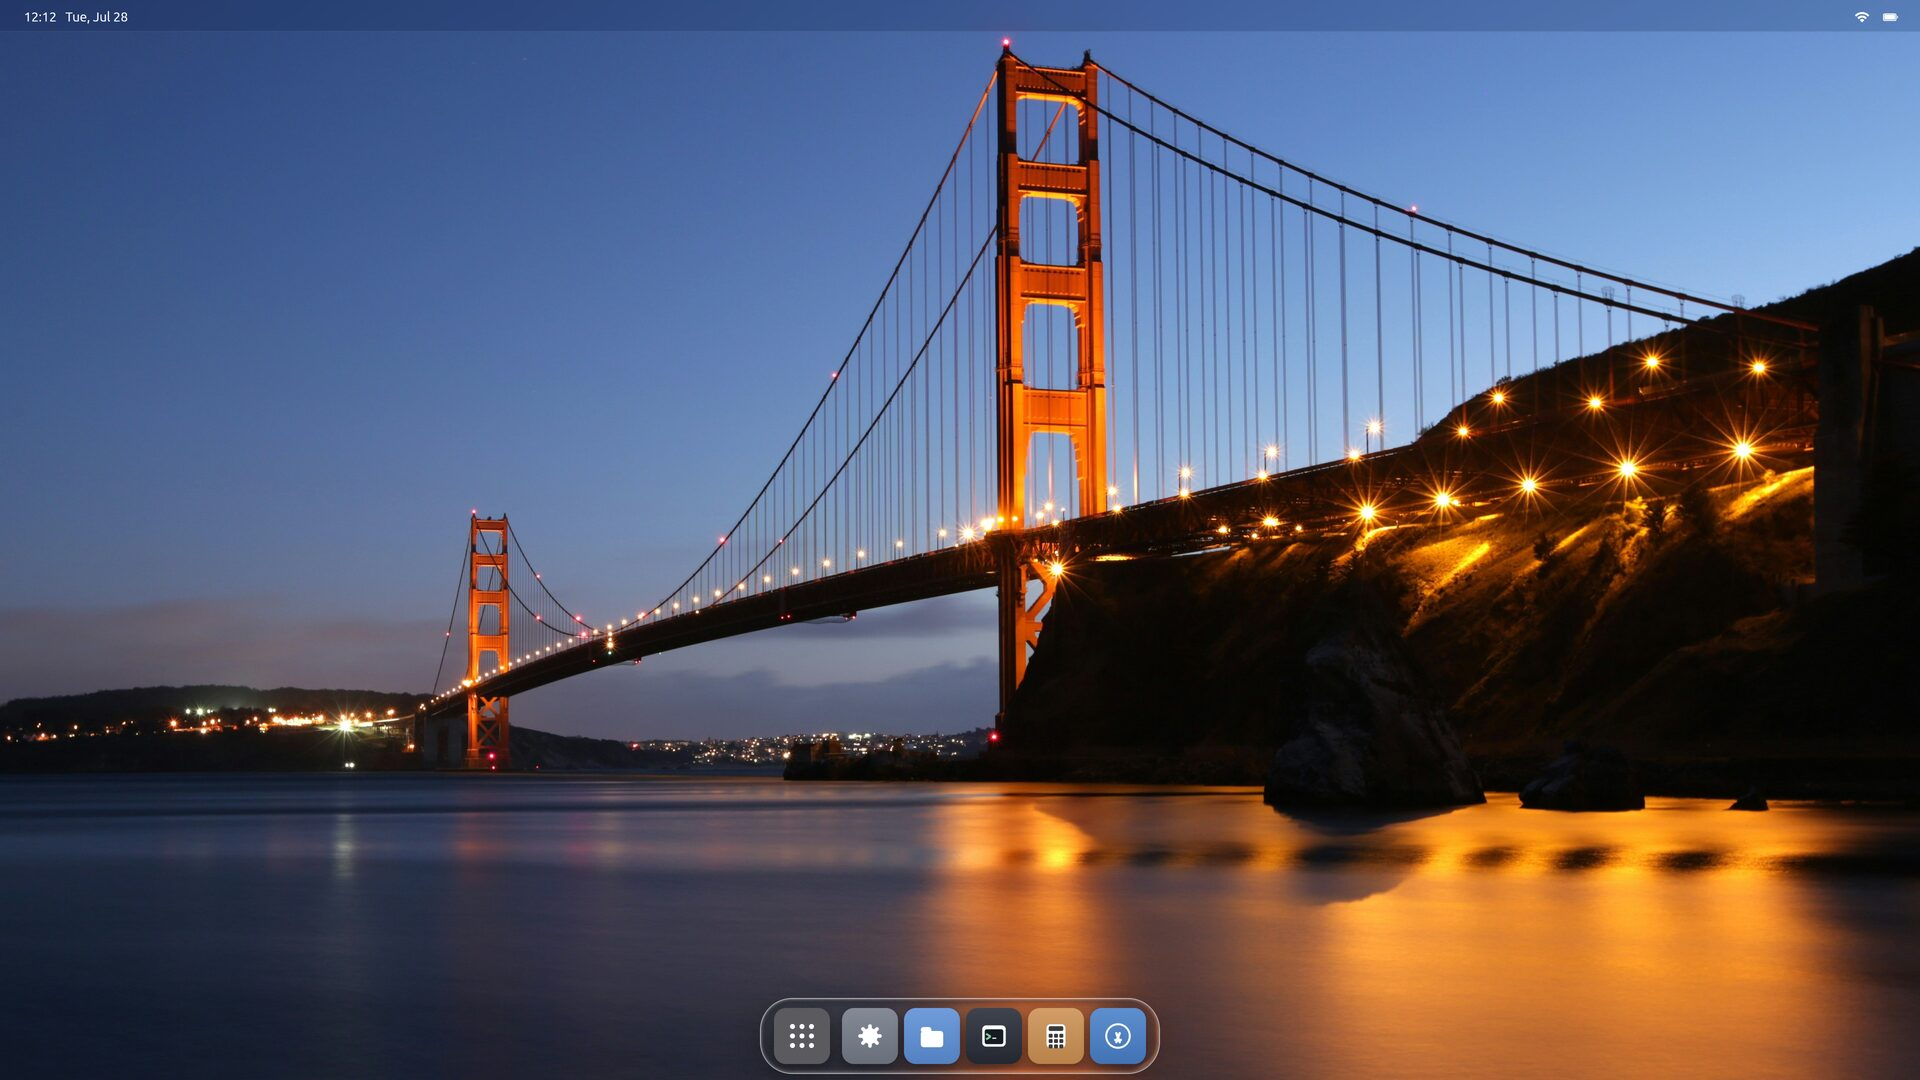
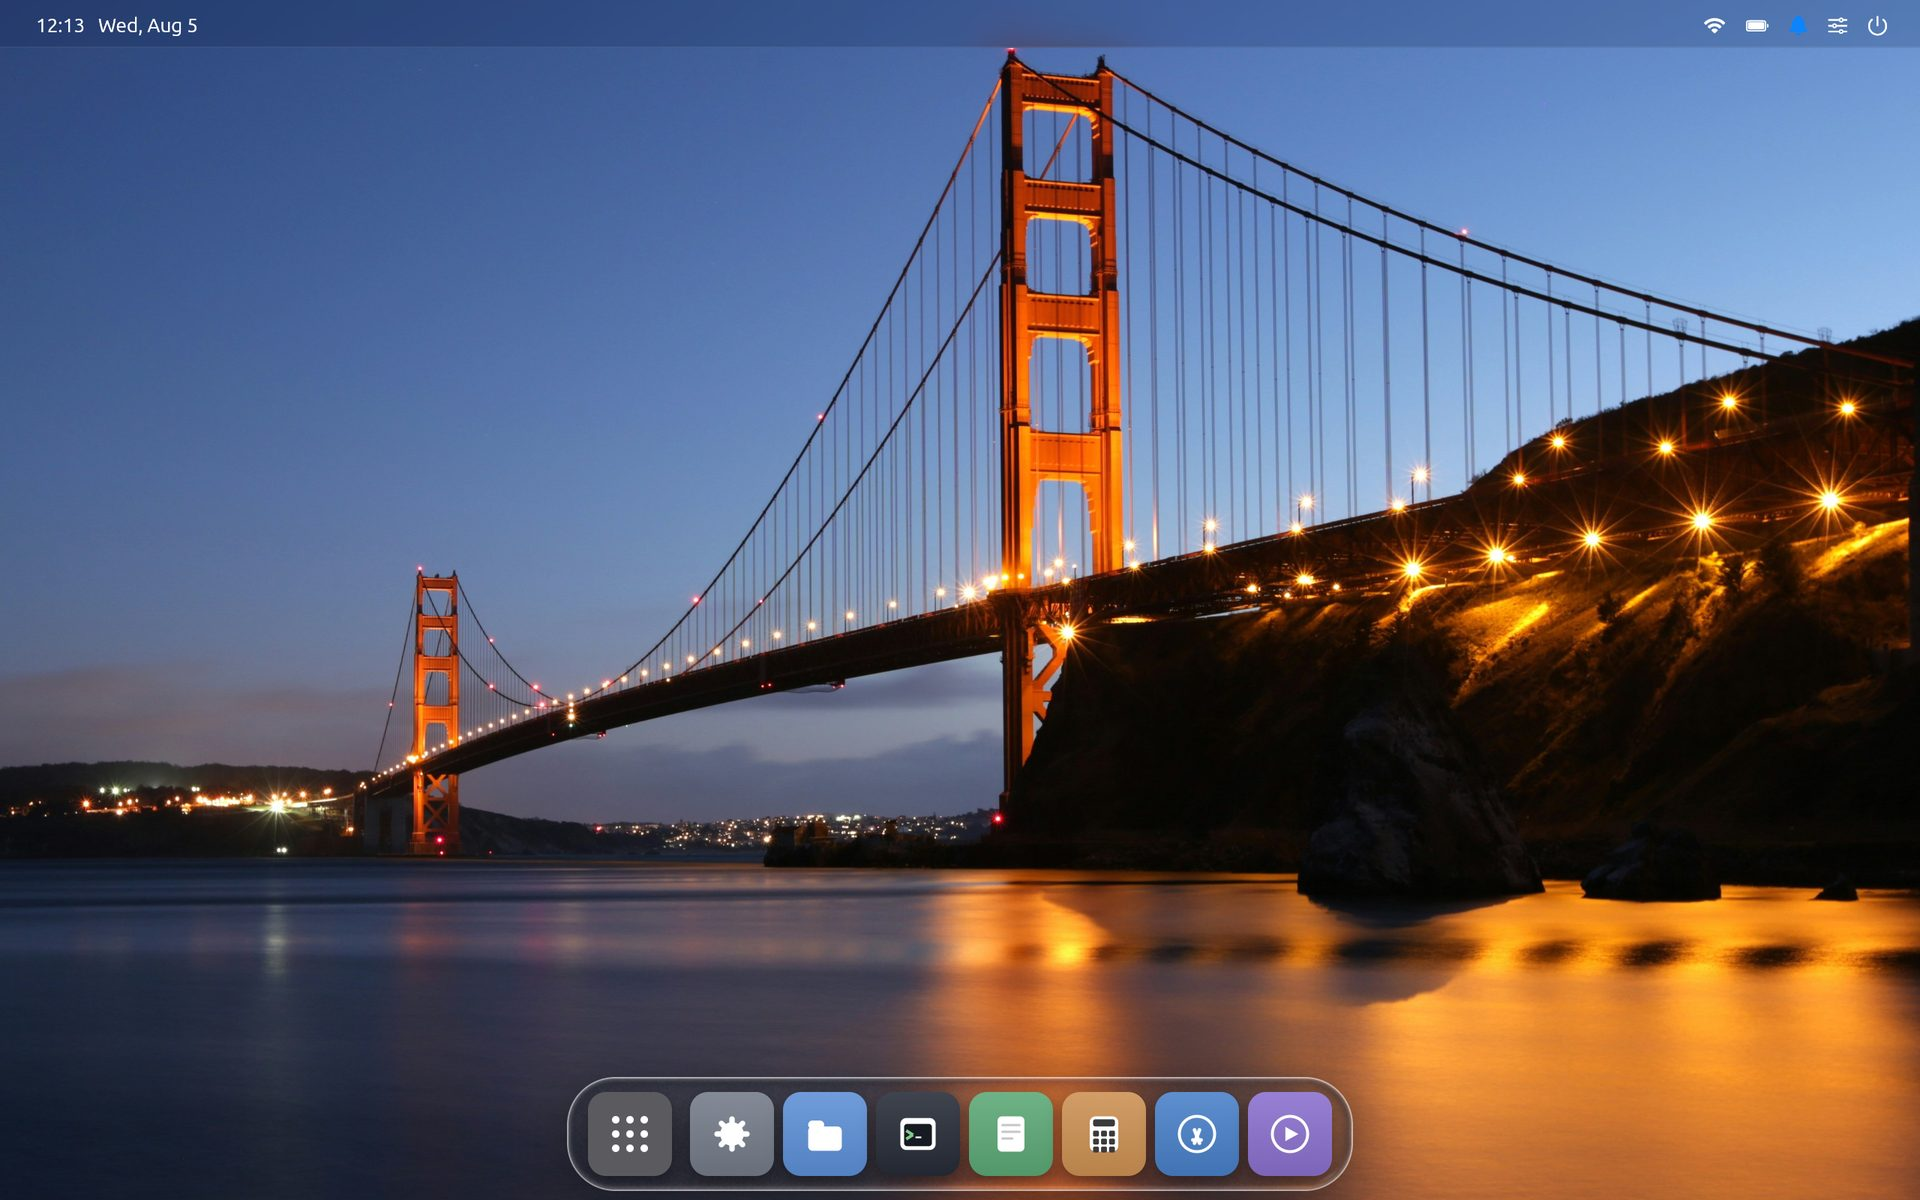
ui: bring the web guide up to 0.2.3, and re-cut its stale screenshots
The Markdown guide was corrected last commit; guide.html still described the
0.2 desktop. It now carries the same content: a menu-bar/control-centre
section, a screen-recording section (Record, Record App, the red-dot
indicator, ~/Videos, what the hardware encoder costs), Ctrl+Shift+R in the
keyboard reference, nine app cards instead of five, an eight-icon dock, and
no more "No notifications yet — the Settings toggle is inert", which appeared
twice on the page and has been false since 0.2.3.

Three screenshots contradicted the text and were re-cut from this machine:
desktop.jpg (the dock ships eight icons, the old shot showed six),
launchpad.jpg (now the real installed grid, Chrome and VS Code included) and
settings.jpg. Their alt text is rewritten to describe what the new images
actually show rather than the old ones.

settings.jpg meant installing the published 0.2.3-2 .deb on this box first —
it was still running 0.2.3-1, so the System Information panel would have
photographed the wrong version into the documentation.

Both guides also claimed Settings has five sidebar sections. It has nine:
General, Network, Displays, Sound, Date & Time, Default Apps, Appearance,
Power, About — checked against SettingsApp.swift, not memory.

Claude-Session: https://claude.ai/code/session_01SRKD83S2yqs3Drs12Gby9J

diff --git a/ui/guide.html b/ui/guide.html
@@ -304,6 +304,8 @@
         <a href="#first-login">First login</a>
         <a href="#dock">The dock</a>
         <a href="#launchpad">Launchpad</a>
+        <a href="#menubar">Menu bar</a>
+        <a href="#recording">Recording</a>
         <a href="#windows">Windows</a>
         <a href="#spaces">Spaces &amp; Mission Control</a>
         <a href="#shortcuts">Shortcuts</a>
@@ -340,7 +342,7 @@
         a right-click on the wallpaper.</p>
       </div>
       <figure>
-        <img src="img/guide/desktop.jpg" alt="The Starling desktop: a menu bar with the clock across the top, a wallpaper of the Golden Gate Bridge at dusk, and a floating glass dock at the bottom holding six app icons.">
+        <img src="img/guide/desktop.jpg" alt="The Starling desktop: a menu bar with the clock across the top, a wallpaper of the Golden Gate Bridge at dusk, and a floating glass dock at the bottom holding eight app icons.">
         <figcaption>The Starling desktop — menu bar, wallpaper, and the dock.</figcaption>
       </figure>
     </div>
@@ -353,10 +355,11 @@
         <h2>Your apps, along the bottom</h2>
       </div>
       <div class="prose">
-        <p>Out of the box the dock holds the six first-party apps, in order:
+        <p>Out of the box the dock holds the first-party apps, in order:
         <strong>Launchpad</strong>, <strong>Settings</strong>,
         <strong>Files</strong>, <strong>Terminal</strong>,
-        <strong>Calculator</strong>, and the <strong>App Store</strong>.</p>
+        <strong>Text Editor</strong>, <strong>Calculator</strong>,
+        the <strong>App Store</strong>, and <strong>Video Player</strong>.</p>
       </div>
       <ul class="feats">
         <li><strong>Click</strong> an icon to launch or focus that app.</li>
@@ -383,9 +386,51 @@
         <li>Click empty space or press <kbd>Esc</kbd> to dismiss it.</li>
       </ul>
       <figure>
-        <img src="img/guide/launchpad.jpg" alt="The Launchpad: a search box at the top and a grid of app icons — Settings, Files, Terminal, Calculator, App Store, Chrome, VS Code, Blender, GIMP and IntelliJ IDEA — over a blurred wallpaper.">
+        <img src="img/guide/launchpad.jpg" alt="The Launchpad: a search box at the top and a grid of app icons — Settings, Files, Image Viewer, Video Player, Terminal, Text Editor, Calculator, Task Manager, App Store, Chrome and VS Code — over a blurred wallpaper.">
         <figcaption>The Launchpad. First-party apps and any installed third-party apps, searchable.</figcaption>
       </figure>
+    </div>
+  </section>
+
+  <section id="menubar">
+    <div class="wrap">
+      <div class="kicker">Menu bar</div>
+      <div class="sec-head">
+        <h2>The bar across the top</h2>
+        <p>The clock and date sit on the left; on the right are the Wi-Fi and
+        battery indicators, a <strong>bell</strong>, and the
+        <strong>control centre</strong>.</p>
+      </div>
+      <ul class="feats">
+        <li><strong>Wi-Fi</strong> — join a network without opening Settings.</li>
+        <li><strong>Dark Mode</strong> — switches the whole desktop and every first-party app.</li>
+        <li><strong>Tiling</strong> — retiles the current space; toggle it off to restore floating windows.</li>
+        <li><strong>Muted</strong> — mute or unmute output, with <strong>volume</strong> and <strong>brightness</strong> sliders below the tiles.</li>
+        <li><strong>Record</strong> and <strong>Record App</strong> — see <a href="#recording">recording</a>.</li>
+      </ul>
+      <p class="note">The <strong>bell</strong> collects notifications instead of
+      interrupting you with banners: nothing steals focus, and you read what
+      happened when you choose to.</p>
+    </div>
+  </section>
+
+  <section id="recording">
+    <div class="wrap">
+      <div class="kicker">Recording</div>
+      <div class="sec-head">
+        <h2>The desktop records itself</h2>
+        <p>No extra software, and nothing to configure.</p>
+      </div>
+      <ul class="feats">
+        <li><strong>Record</strong> — from the control centre, or <kbd>Ctrl</kbd> + <kbd>Shift</kbd> + <kbd>R</kbd>, captures the whole screen.</li>
+        <li><strong>Record App</strong> — opens Mission Control and asks which window you want. It captures that window’s own content, not the patch of screen it sits in, so windows stacked on top never appear and moving or resizing it mid-recording doesn’t spoil the take.</li>
+        <li>A <strong>red dot and a running clock</strong> sit in the menu bar for the whole recording, so one can never be going unnoticed.</li>
+      </ul>
+      <p class="note">Recordings land in <code>~/Videos</code> as MP4, and the
+      Video Player opens them. Where the machine has a hardware H.264 encoder the
+      composited frame goes straight to it as a dma-buf and the CPU never touches
+      a pixel — about 0.05 of a core on a modern laptop. Machines without one
+      fall back to a software encoder, which works but costs more.</p>
     </div>
   </section>
 
@@ -399,7 +444,7 @@
         <li>Windows carry <strong>macOS-style colored circle buttons</strong> on the left of the title bar — close, minimize, maximize.</li>
         <li><strong>Drag the title bar</strong> to move a window; <strong>drag an edge or corner</strong> to resize.</li>
         <li><strong>Double-click the title bar</strong> to toggle maximized.</li>
-        <li>Windows <strong>float</strong> by default. Flip the whole desktop to a <strong>tiling</strong> (dwm-style master-and-stack) layout with the <strong>Tiling Windows</strong> switch in Settings — toggling back restores your floating layout.</li>
+        <li>Windows <strong>float</strong> by default. Flip the whole desktop to a <strong>tiling</strong> (dwm-style master-and-stack) layout with the <strong>Tiling</strong> tile in the <a href="#menubar">control centre</a> or the <strong>Tiling Windows</strong> switch in Settings — toggling back restores your floating layout.</li>
       </ul>
     </div>
   </section>
@@ -442,6 +487,7 @@
         <tr><td><kbd>Ctrl</kbd> + <kbd>Tab</kbd></td><td>Cycle spaces</td></tr>
         <tr><td><kbd>Ctrl</kbd> + <kbd>↑</kbd></td><td>Mission Control</td></tr>
         <tr><td><kbd>Ctrl</kbd> + <kbd>↓</kbd></td><td>AI Space</td></tr>
+        <tr><td><kbd>Ctrl</kbd> + <kbd>Shift</kbd> + <kbd>R</kbd></td><td>Start / stop screen recording</td></tr>
         <tr><td><kbd>Ctrl</kbd> + <kbd>Space</kbd></td><td>Toggle the input method (fcitx5, for CJK and other IME input)</td></tr>
         <tr><td><kbd>Esc</kbd></td><td>Close Mission Control</td></tr>
         <tr><td>Double-click title bar</td><td>Maximize / restore a window</td></tr>
@@ -453,25 +499,28 @@
     <div class="wrap">
       <div class="kicker">The apps</div>
       <div class="sec-head">
-        <h2>Five first-party apps</h2>
+        <h2>Nine first-party apps</h2>
         <p>All written against Starling's own Swift framework.</p>
       </div>
       <div class="apps-grid">
         <div class="app-card"><h3>Settings</h3><p>Appearance, displays, network, sound, and system information — see below.</p></div>
         <div class="app-card"><h3>Files</h3><p>Browse your home directory and the filesystem.</p></div>
         <div class="app-card"><h3>Terminal</h3><p>A real terminal with a PTY, running your login shell. TUI programs like <code>vim</code> and <code>htop</code> work.</p></div>
+        <div class="app-card"><h3>Text Editor</h3><p>A plain-text editor.</p></div>
         <div class="app-card"><h3>Calculator</h3><p>A basic calculator.</p></div>
+        <div class="app-card"><h3>Task Manager</h3><p>CPU, memory, disk and network with live sparklines, a sortable process table, and End Process.</p></div>
+        <div class="app-card"><h3>Video Player</h3><p>Plays your recordings and other video. For Starling’s own recordings it decodes on the GPU and never copies a frame through the CPU.</p></div>
+        <div class="app-card"><h3>Image Viewer</h3><p>Opens images from Files.</p></div>
         <div class="app-card"><h3>App Store</h3><p>Install more applications — see below.</p></div>
-        <div class="app-card"><h3>Settings sidebar</h3><p><strong>General</strong> (system info), <strong>Network</strong> (Wi-Fi), <strong>Displays</strong>, <strong>Appearance</strong> (Dark Mode, Tiling Windows, Sound), and <strong>About</strong>.</p></div>
+        <div class="app-card"><h3>Settings sidebar</h3><p><strong>General</strong> (system info), <strong>Network</strong> (Wi-Fi), <strong>Displays</strong>, <strong>Sound</strong>, <strong>Date &amp; Time</strong>, <strong>Default Apps</strong>, <strong>Appearance</strong> (Dark Mode, Tiling Windows, Notifications), <strong>Power</strong>, and <strong>About</strong>.</p></div>
       </div>
       <figure>
-        <img src="img/guide/settings.jpg" alt="The Settings app: a sidebar with General, Network, Displays, Appearance and About; the General page shows System Information reading Starling OS Version 0.2, Ubuntu 26.04 LTS.">
+        <img src="img/guide/settings.jpg" alt="The Settings app: a sidebar with General, Network, Displays, Sound, Date &amp; Time, Default Apps, Appearance, Power and About; the General page shows System Information reading Starling OS Version 0.2.3-2, Ubuntu 26.04 LTS.">
         <figcaption>Settings — here on General, showing the system information.</figcaption>
       </figure>
       <p class="note"><strong>Scaling is pinned to 2.0</strong> in this release,
-      the <strong>Notifications</strong> toggle is inert (no notification
-      service yet), and there is no display-mode picker — the session uses the
-      connector's preferred mode.</p>
+      and there is no display-mode picker — the session uses the connector's
+      preferred mode.</p>
     </div>
   </section>
 
@@ -520,7 +569,6 @@
       </div>
       <ul class="feats">
         <li><strong>No screen lock or screensaver.</strong> Don't rely on it to secure an unattended machine.</li>
-        <li><strong>No notifications yet.</strong> The Settings toggle is inert.</li>
         <li><strong>Scaling is fixed at 2.0.</strong> Fractional scaling produced blurry text and isn't usable yet.</li>
         <li><strong>No display-mode picker.</strong> The session uses the connector's preferred mode.</li>
         <li><strong>Zoom runs with a caveat</strong> — it starts but reports <code>no pactl and pacmd found</code>, since nothing pulls in an audio stack yet.</li>

diff --git a/docs/USER_GUIDE.md b/docs/USER_GUIDE.md
@@ -206,17 +206,21 @@ framework:
 
 ## Settings
 
-The Settings app has five sections in its sidebar:
+The Settings app has nine sections in its sidebar:
 
 - **General** — **System Information**: the Starling version, your Ubuntu
   release, kernel, and Mesa version.
 - **Network** — see and join **Wi-Fi** networks.
 - **Displays** — display information. Note: **scaling is pinned to 2.0** in
   this release, and there is no display-mode selection yet.
+- **Sound** — output device and output volume, and a switch to silence it.
+- **Date & Time** — the current time, and the system timezone.
+- **Default Apps** — which application handles what, the browser included.
 - **Appearance** — the **Dark Mode** switch (the same light/dark choice as the
   desktop right-click menu), **Tiling Windows** to switch between floating and
-  tiling window management, **Sound & Brightness**, and a **Notifications**
-  toggle — events collect behind the bell in the menu bar.
+  tiling window management, and a **Notifications** toggle — events collect
+  behind the bell in the menu bar.
+- **Power** — power options.
 - **About** — about the desktop.
 
 ---
